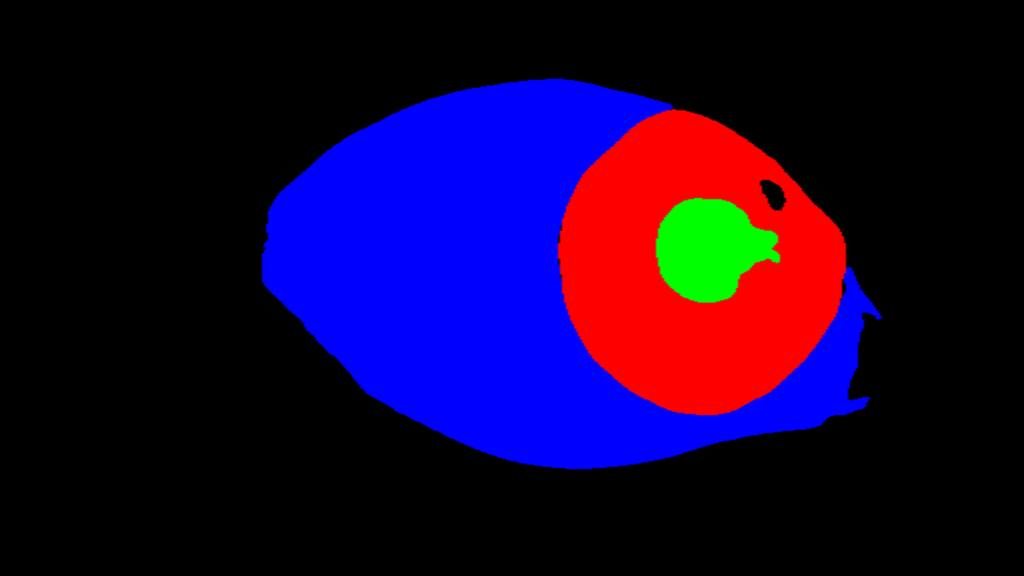
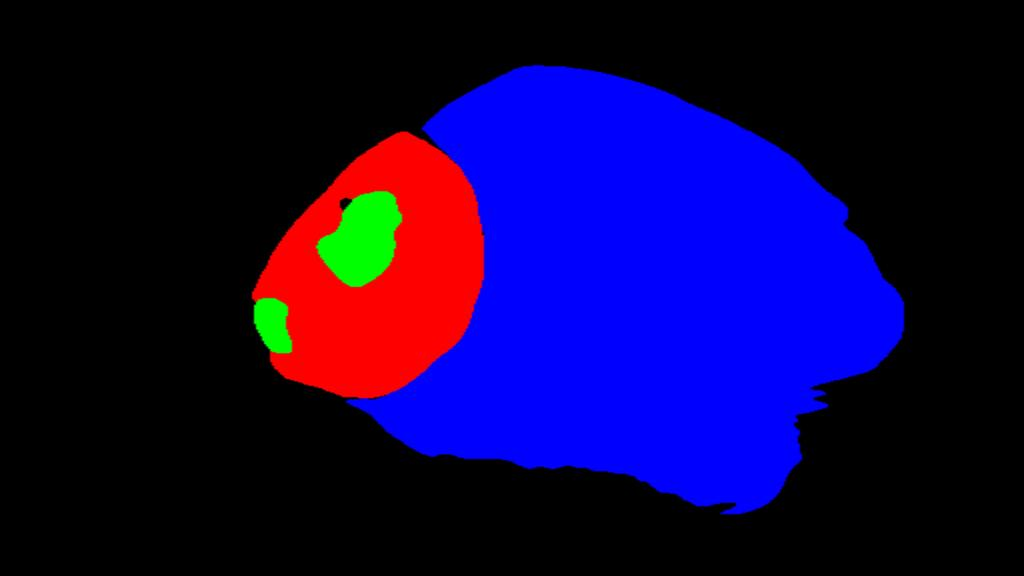
[feature] Refined Partitioning Functionality

Changed region(s): [[0.4688, 0.0938, 0.9062, 0.9062], [0.2188, 0.1562, 0.5625, 0.8125]]

diff --git a/partition.py b/partition.py
@@ -39,7 +39,7 @@ def resize_image(image_path, max_size=1024):
     return resized_path
 
 
-def map_region_to_position(region_center, xr, yr, rr, xg, yg, rg, is_right_eye=True):
+def map_region_to_position(region_center, xr, yr, rr, xg, yg, rg, is_right_eye):
     """
     根据区域中心点的位置确定区域编号
     params:
@@ -57,6 +57,9 @@ def map_region_to_position(region_center, xr, yr, rr, xg, yg, rg, is_right_eye=T
     # 判断是否在虹膜圆上方或下方
     above_iris_center = y < yr
 
+    # 对6、11、3区间进行细分
+    dis_pupil_vertical = 2 * rg
+
     # 瞳孔切线内的区域
     if in_pupil_vertical:
         if above_iris_center:
@@ -68,14 +71,14 @@ def map_region_to_position(region_center, xr, yr, rr, xg, yg, rg, is_right_eye=T
     elif in_iris_vertical:
         if above_iris_center:
             if x < xr:  # 左侧
-                return 10 if is_right_eye else 8  # 肾（对调）
+                return 10 if is_right_eye else 8
             else:  # 右侧
-                return 8 if is_right_eye else 10  # 肾（对调）
+                return 8 if is_right_eye else 10
         else:
             if x < xr:  # 左侧
-                return 15 if is_right_eye else 2  # 脾（对调）
+                return 15 if is_right_eye else 2
             else:  # 右侧
-                return 2 if is_right_eye else 15  # 脾（对调）
+                return 2 if is_right_eye else 15
 
     # 虹膜切线外的区域
     else:
@@ -88,15 +91,33 @@ def map_region_to_position(region_center, xr, yr, rr, xg, yg, rg, is_right_eye=T
             elif x > xr + rr:  # 右侧
                 return 5 if is_right_eye else 13  # 心/胆（对调）
         elif y < yg - rg:  # 瞳孔上切线以上
-            if x < xr - rr:  # 左侧
-                return 11 if is_right_eye else 6  # 女子胞/乳（对调）
-            elif x > xr + rr:  # 右侧
-                return 6 if is_right_eye else 11  # 乳/女子胞（对调）
+            if xr - rr - dis_pupil_vertical < x < xr - rr:  # 左侧但是在中切线右边
+                return 11 if is_right_eye else 7  # 女子胞/肺（对调）
+            elif x < xr - rr - dis_pupil_vertical:  # 左侧但是在中切线左边
+                return 12 if is_right_eye else 6 # 肝/乳（对调）
+            elif xr + rr < x < xr + rr + dis_pupil_vertical:  # 右侧但是在中切线左侧
+                return 7 if is_right_eye else 11  # 肺/女子胞（对调）
+            elif x > xr + rr + dis_pupil_vertical:  # 右侧但是在中切线右侧
+                return 6 if is_right_eye else 12  # 乳/肝（对调）
         elif y > yg + rg:  # 瞳孔下切线以下
-            if x < xr - rr:  # 左侧
-                return 14 if is_right_eye else 3  # 肝/大肠（对调）
-            elif x > xr + rr:  # 右侧
-                return 3 if is_right_eye else 14  # 大肠/肝（对调）
+            if not is_right_eye:
+                if xr - rr - dis_pupil_vertical < x < xr - rr:
+                    return 3 # 大肠
+                elif x < xr - rr - dis_pupil_vertical:
+                    return 4 # 小肠
+                elif x > xr + rr:
+                    return 14 # 肝
+            else:
+                if x < xr - rr:
+                    return 14 # 肝
+                elif xr + rr < x < xr + rr + dis_pupil_vertical:
+                    return 3 # 大肠
+                elif x > xr + rr + dis_pupil_vertical:
+                    return 4 # 小肠
+            # if x < xr - rr:  # 左侧
+            #     return 14 if is_right_eye else 3  # 肝/大肠（对调）
+            # elif x > xr + rr:  # 右侧
+            #     return 3 if is_right_eye else 14  # 大肠/肝（对调）
 
     return None  # 其他区域暂不处理
 
@@ -163,6 +184,11 @@ def draw_region(image_path, point_x=None, point_y=None, is_right_eye=True):
         center = (int(xr), int(yr))
         radius = int(rr)
 
+        # 找到最大的绿色轮廓
+        largest_green = max(green_contours, key=cv2.contourArea)
+        (xg, yg), rg = cv2.minEnclosingCircle(largest_green)
+        xg, yg, rg = int(xg), int(yg), int(rg)
+
         # 使用黑色绘制圆
         cv2.circle(output_image, center, radius, (0, 0, 0), 2)
 
@@ -172,17 +198,29 @@ def draw_region(image_path, point_x=None, point_y=None, is_right_eye=True):
             'right': xr + rr,
             'center_y': yr
         })
+        if not is_right_eye:
+            # 绘制切线
+            draw_limited_line((xr - rr, 0), (xr - rr, height))  # 左切线
+            draw_limited_line((xr + rr, 0), (xr + rr, height))  # 右切线
 
-        # 绘制切线
-        draw_limited_line((xr - rr, 0), (xr - rr, height))  # 左切线
-        draw_limited_line((xr + rr, 0), (xr + rr, height))  # 右切线
+            # 绘制巩膜的细分区间
+            draw_limited_line((xr - rr - 2 * rg, 0), (xr - rr - 2 * rg, height))  # 左切线左侧
+            draw_limited_line((xr + rr + 2 * rg, 0), (xr + rr + 2 * rg, yg - rg)) # 右切线右侧
+        else:
+            # 绘制切线
+            draw_limited_line((xr - rr, 0), (xr - rr, height))  # 左切线
+            draw_limited_line((xr + rr, 0), (xr + rr, height))  # 右切线
+
+            # 绘制巩膜的细分区间
+            draw_limited_line((xr - rr - 2 * rg, yg - rg), (xr - rr - 2 * rg, 0))  # 左切线左侧
+            draw_limited_line((xr + rr + 2 * rg, 0), (xr + rr + 2 * rg, height)) # 右切线右侧
 
     # 处理绿色区域（瞳孔）- 只处理最大区域
     if green_contours and iris_boundaries:
         # 找到最大的绿色轮廓
-        largest_green = max(green_contours, key=cv2.contourArea)
-        (xg, yg), rg = cv2.minEnclosingCircle(largest_green)
-        xg, yg, rg = int(xg), int(yg), int(rg)
+        # largest_green = max(green_contours, key=cv2.contourArea)
+        # (xg, yg), rg = cv2.minEnclosingCircle(largest_green)
+        # xg, yg, rg = int(xg), int(yg), int(rg)
 
         iris = iris_boundaries[0]  # 使用最大虹膜的边界
 
@@ -286,7 +324,7 @@ def draw_region(image_path, point_x=None, point_y=None, is_right_eye=True):
     for i in range(1, num_labels):
         # 将所有非背景区域填充为白色
         output_image[labels == i] = [255, 255, 255]
-        
+
         # 只在有效区域上添加编号
         if i in valid_labels:
             center_x = int(centroids[i][0])
@@ -361,7 +399,7 @@ def draw_region(image_path, point_x=None, point_y=None, is_right_eye=True):
 
 def main():
     img_path = 'result/result/042.jpg'
-    draw_region(img_path, point_x=200, point_y=350, is_right_eye=False)
+    draw_region(img_path, point_x=700, point_y=400, is_right_eye=False)
 
 
 if __name__ == '__main__':
